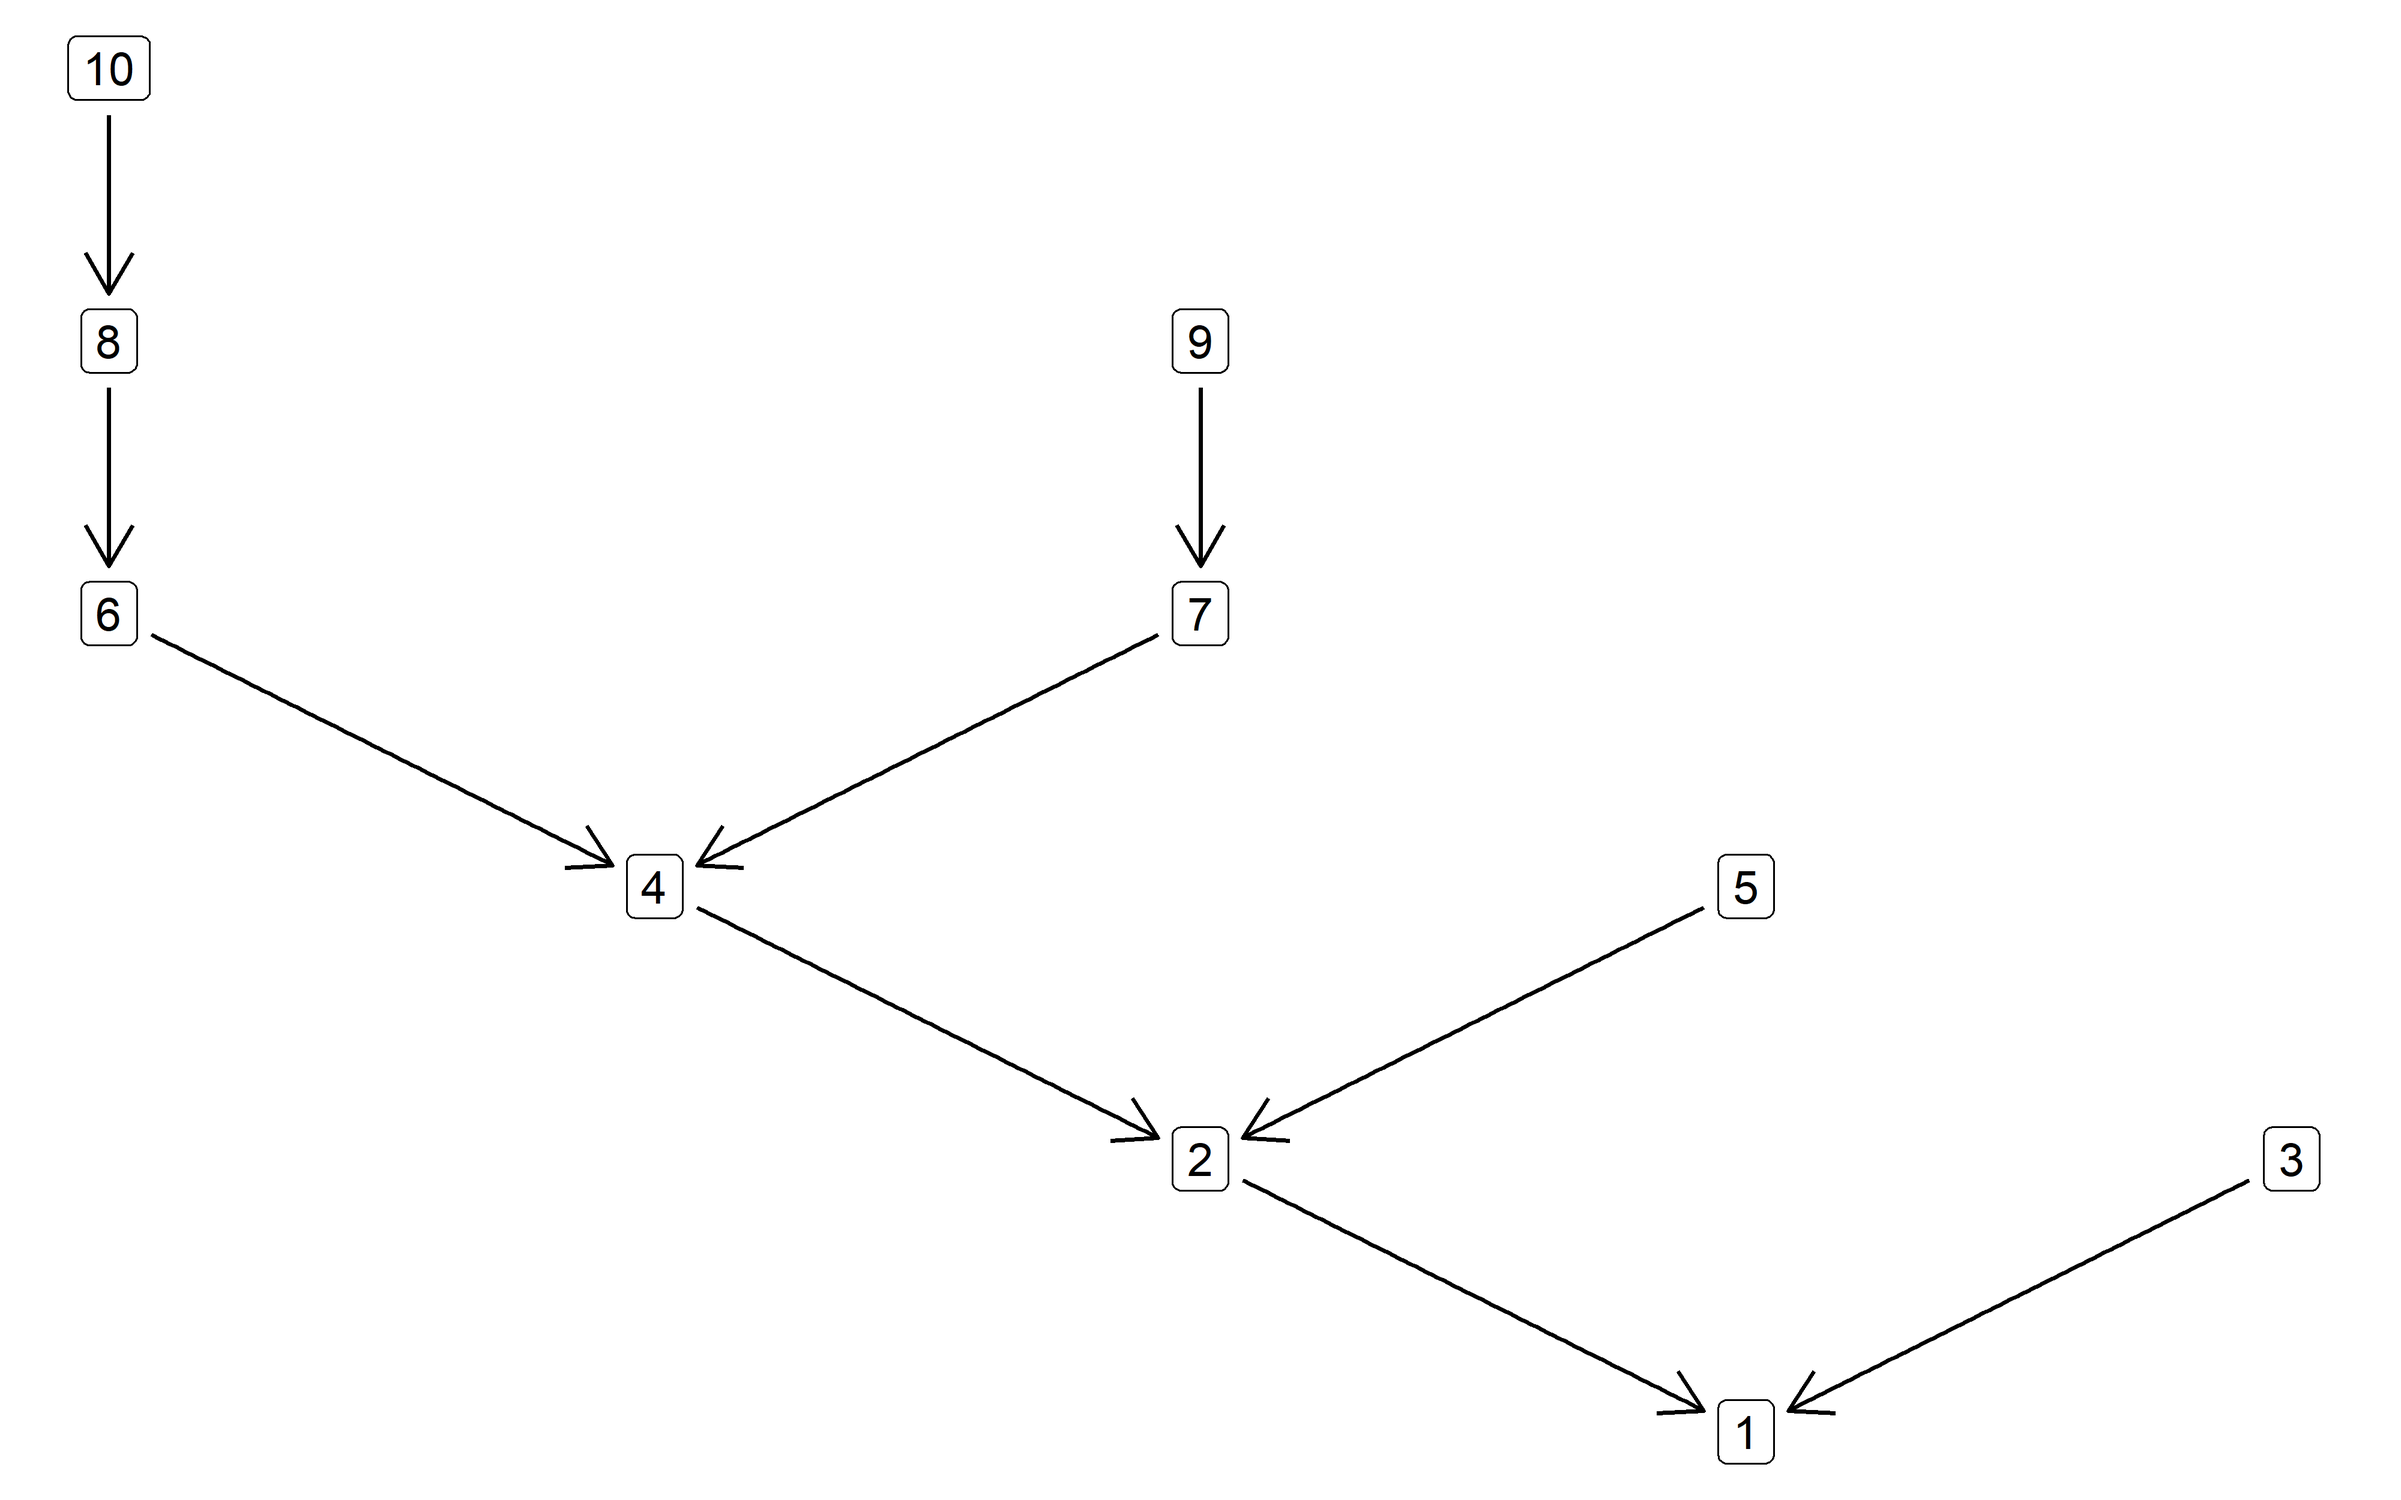
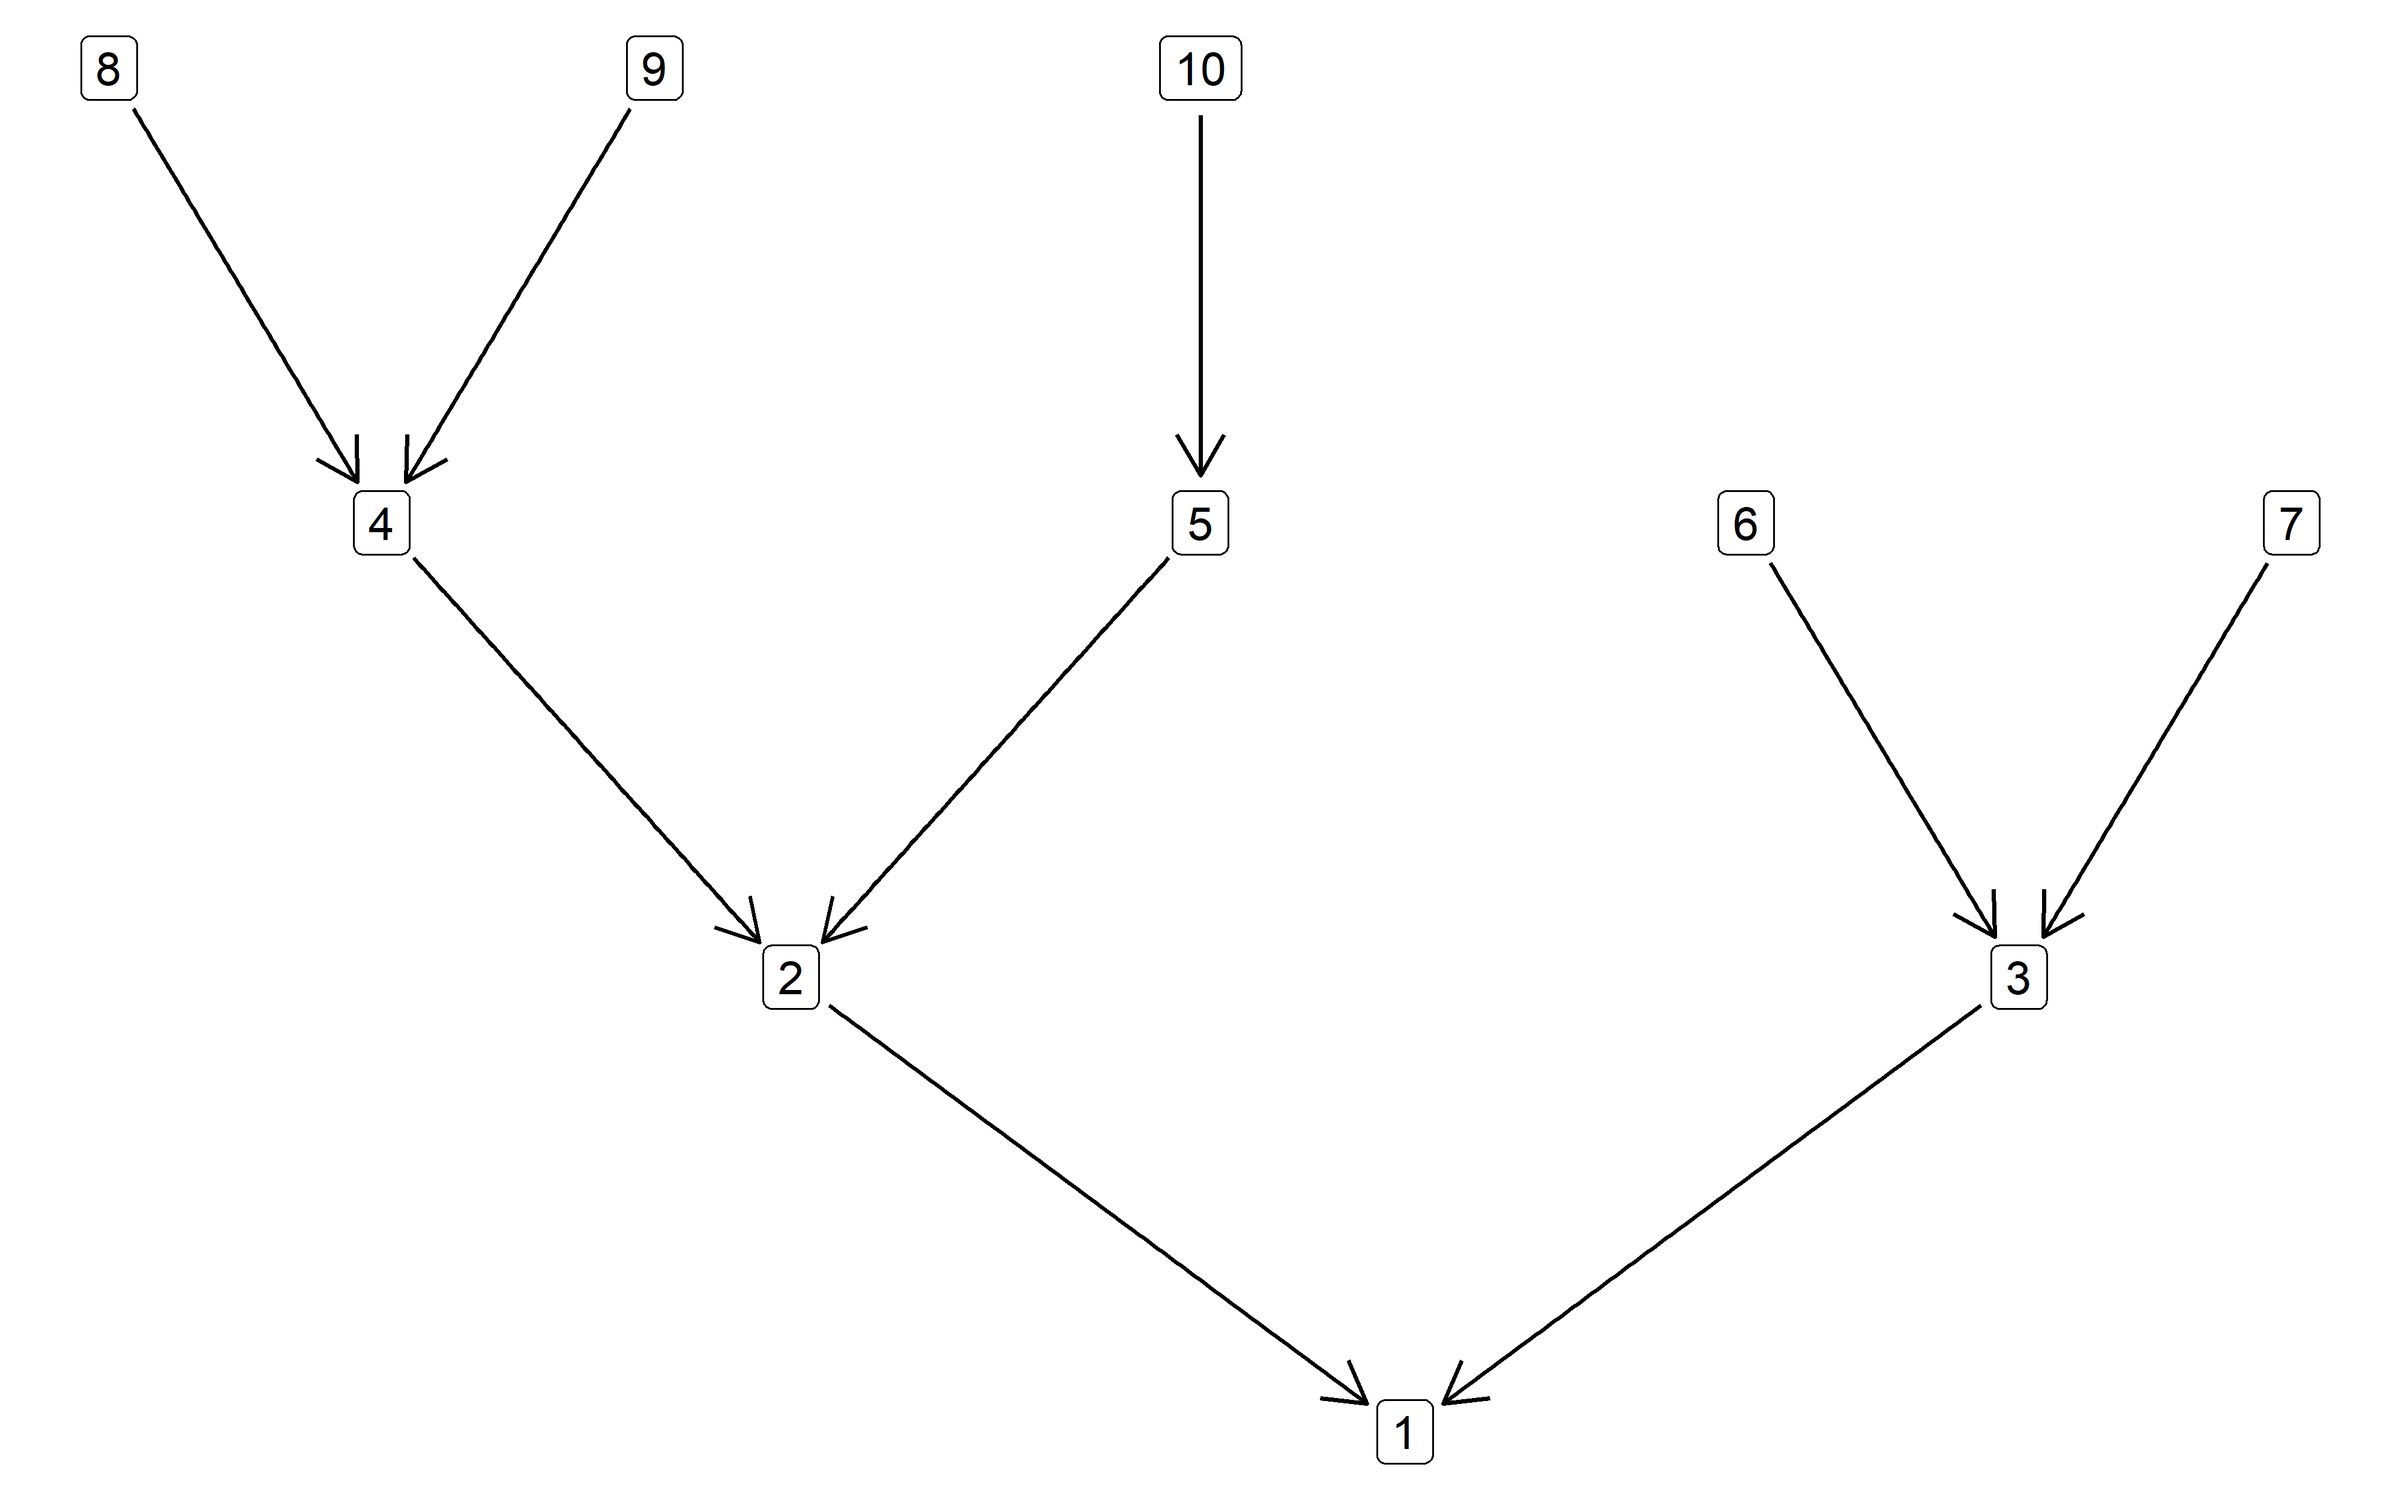
update readme

diff --git a/README.md b/README.md
@@ -7,8 +7,10 @@
 The purpose of this package is to generate Stochastic Branching Networks
 (SBNs), which are frequently used to represent the branching structure
 of rivers in ecological models. The functions in this package rely
-heavily on the [igraph](https://igraph.org/r/) package. See the [help
-page](https://flee598.github.io/SBN/) for additional details.
+heavily on the [igraph](https://igraph.org/r/) package.
+
+See the [help page](https://flee598.github.io/SBN/) for additional
+details.
 
 The fundamental unit of the SBN package is a downstream directed
 `igraph` object. The package contains functions for generating and
@@ -37,9 +39,9 @@ library(SBN)
 # generate an SBN with 10 nodes and a branching probability of 0.7
 g <- sbn_create(10, 0.7)
 g
-#> IGRAPH 888f1d0 D--- 10 9 -- 
-#> + edges from 888f1d0:
-#> [1]  2->1  3->1  4->2  5->2  6->3  7->4  8->4  9->6 10->7
+#> IGRAPH b8806fe D--- 10 9 -- 
+#> + edges from b8806fe:
+#> [1]  2->1  3->2  4->2  5->3  6->3  7->4  8->4  9->5 10->6
 ```
 
 ![](man/figures/README-unnamed-chunk-5-1.png)<!-- -->
@@ -52,16 +54,16 @@ networks.
 ``` r
 # identify all headwater nodes
 sbn_get_hw(g)
-#>  5  8  9 10 
-#>  5  8  9 10
+#>  7  8  9 10 
+#>  7  8  9 10
 
 # get all nodes downstream of node 10
 sbn_get_downstream(g, 10)
-#> [1] 7 4 2 1
+#> [1] 6 3 2 1
 
 # get all nodes upstream of node 2
 sbn_get_upstream(g, 2)
-#> [1]  4  5  7  8 10
+#> [1]  3  4  5  6  7  8  9 10
 
 # get the id of the outlet node
 sbn_get_outlet(g)
@@ -71,23 +73,23 @@ sbn_get_outlet(g)
 # get the node-to-node distance of an undirected network
 sbn_to_mtx(g, method = "n2n_dist_undir")
 #>    1 2 3 4 5 6 7 8 9 10
-#> 1  0 1 1 2 2 2 3 3 3  4
-#> 2  1 0 2 1 1 3 2 2 4  3
-#> 3  1 2 0 3 3 1 4 4 2  5
-#> 4  2 1 3 0 2 4 1 1 5  2
-#> 5  2 1 3 2 0 4 3 3 5  4
-#> 6  2 3 1 4 4 0 5 5 1  6
-#> 7  3 2 4 1 3 5 0 2 6  1
-#> 8  3 2 4 1 3 5 2 0 6  3
-#> 9  3 4 2 5 5 1 6 6 0  7
-#> 10 4 3 5 2 4 6 1 3 7  0
+#> 1  0 1 2 2 3 3 3 3 4  4
+#> 2  1 0 1 1 2 2 2 2 3  3
+#> 3  2 1 0 2 1 1 3 3 2  2
+#> 4  2 1 2 0 3 3 1 1 4  4
+#> 5  3 2 1 3 0 2 4 4 1  3
+#> 6  3 2 1 3 2 0 4 4 3  1
+#> 7  3 2 3 1 4 4 0 2 5  5
+#> 8  3 2 3 1 4 4 2 0 5  5
+#> 9  4 3 2 4 1 3 5 5 0  4
+#> 10 4 3 2 4 3 1 5 5 4  0
 
 # downstream directed network to upstream directed network
 sbn_change_dir(g, method = "rev")
-#> IGRAPH 88f6a53 DN-- 10 9 -- 
+#> IGRAPH b8dc498 DN-- 10 9 -- 
 #> + attr: name (v/c)
-#> + edges from 88f6a53 (vertex names):
-#> [1] 1->2  1->3  2->4  2->5  3->6  4->7  4->8  6->9  7->10
+#> + edges from b8dc498 (vertex names):
+#> [1] 1->2  2->3  2->4  3->5  3->6  4->7  4->8  5->9  6->10
 ```
 
 ### Calculating Strahler order
@@ -98,7 +100,7 @@ Calculate the Strahler order of nodes in a network.
 # Strahler order
 sbn_strahler(g)
 #>  1  2  3  4  5  6  7  8  9 10 
-#>  2  2  1  2  1  1  1  1  1  1
+#>  3  3  2  2  1  1  1  1  1  1
 ```
 
 ### A note on plotting SBNs

diff --git a/index.md b/index.md
@@ -36,9 +36,9 @@ library(SBN)
 # generate an SBN with 10 nodes and a branching probability of 0.7
 g <- sbn_create(10, 0.7)
 g
-#> IGRAPH 4bf50b4 D--- 10 9 -- 
-#> + edges from 4bf50b4:
-#> [1]  2->1  3->1  4->2  5->2  6->4  7->4  8->6  9->7 10->8
+#> IGRAPH 23bcc20 D--- 10 9 -- 
+#> + edges from 23bcc20:
+#> [1]  2->1  3->1  4->2  5->2  6->3  7->3  8->4  9->4 10->5
 ```
 
 ![](man/figures/unnamed-chunk-5-1.png)<!-- -->
@@ -51,16 +51,16 @@ networks.
 ``` r
 # identify all headwater nodes
 sbn_get_hw(g)
-#>  3  5  9 10 
-#>  3  5  9 10
+#>  6  7  8  9 10 
+#>  6  7  8  9 10
 
 # get all nodes downstream of node 10
 sbn_get_downstream(g, 10)
-#> [1] 8 6 4 2 1
+#> [1] 5 2 1
 
 # get all nodes upstream of node 2
 sbn_get_upstream(g, 2)
-#> [1]  4  5  6  7  8  9 10
+#> [1]  4  5  8  9 10
 
 # get the id of the outlet node
 sbn_get_outlet(g)
@@ -70,23 +70,23 @@ sbn_get_outlet(g)
 # get the node-to-node distance of an undirected network
 sbn_to_mtx(g, method = "n2n_dist_undir")
 #>    1 2 3 4 5 6 7 8 9 10
-#> 1  0 1 1 2 2 3 3 4 4  5
-#> 2  1 0 2 1 1 2 2 3 3  4
-#> 3  1 2 0 3 3 4 4 5 5  6
-#> 4  2 1 3 0 2 1 1 2 2  3
-#> 5  2 1 3 2 0 3 3 4 4  5
-#> 6  3 2 4 1 3 0 2 1 3  2
-#> 7  3 2 4 1 3 2 0 3 1  4
-#> 8  4 3 5 2 4 1 3 0 4  1
-#> 9  4 3 5 2 4 3 1 4 0  5
-#> 10 5 4 6 3 5 2 4 1 5  0
+#> 1  0 1 1 2 2 2 2 3 3  3
+#> 2  1 0 2 1 1 3 3 2 2  2
+#> 3  1 2 0 3 3 1 1 4 4  4
+#> 4  2 1 3 0 2 4 4 1 1  3
+#> 5  2 1 3 2 0 4 4 3 3  1
+#> 6  2 3 1 4 4 0 2 5 5  5
+#> 7  2 3 1 4 4 2 0 5 5  5
+#> 8  3 2 4 1 3 5 5 0 2  4
+#> 9  3 2 4 1 3 5 5 2 0  4
+#> 10 3 2 4 3 1 5 5 4 4  0
 
 # downstream directed network to upstream directed network
 sbn_change_dir(g, method = "rev")
-#> IGRAPH 4c5a251 DN-- 10 9 -- 
+#> IGRAPH 241cfb3 DN-- 10 9 -- 
 #> + attr: name (v/c)
-#> + edges from 4c5a251 (vertex names):
-#> [1] 1->2  1->3  2->4  2->5  4->6  4->7  6->8  7->9  8->10
+#> + edges from 241cfb3 (vertex names):
+#> [1] 1->2  1->3  2->4  2->5  3->6  3->7  4->8  4->9  5->10
 ```
 
 ### Calculating Strahler order
@@ -97,7 +97,7 @@ Calculate the Strahler order of nodes in a network.
 # Strahler order
 sbn_strahler(g)
 #>  1  2  3  4  5  6  7  8  9 10 
-#>  2  2  1  2  1  1  1  1  1  1
+#>  3  2  2  2  1  1  1  1  1  1
 ```
 
 ### A note on plotting SBNs
